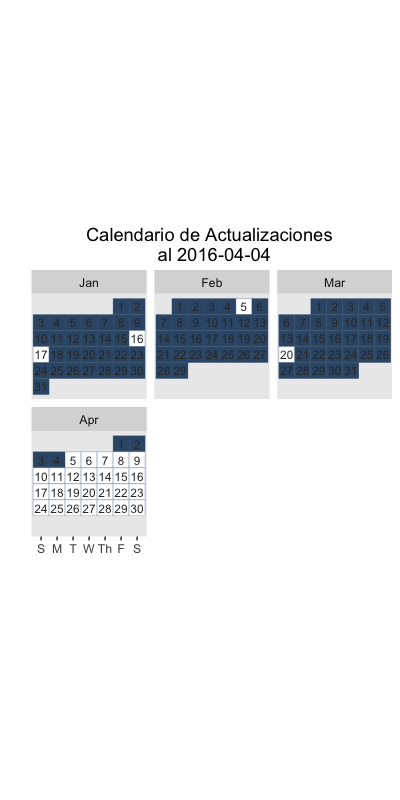
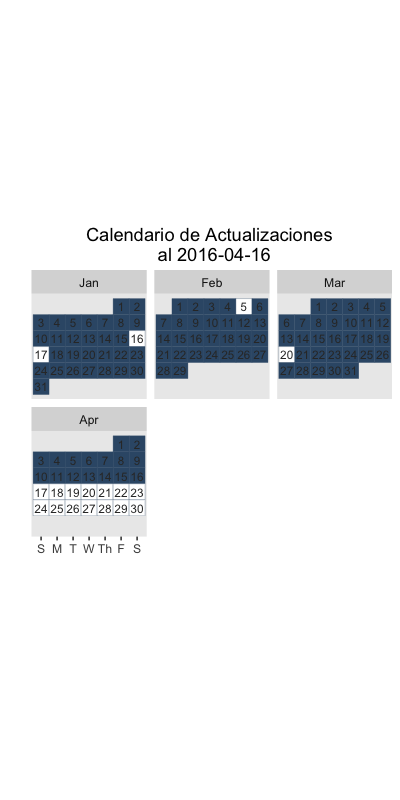
update site

Changed region(s): [[0.09, 0.5625, 0.36, 0.625], [0.63, 0.3125, 0.69, 0.3438]]

diff --git a/intranet/index.html b/intranet/index.html
@@ -64,7 +64,7 @@
 <div class="container">
  <div class = "intracontent">
  <p><small>
-<strong>última actualización (4-abr-2016): 38,151,899 datos</strong>
+<strong>última actualización (15-abr-2016): 48,540,734 datos</strong>
 </small></p>
 
 <hr />
